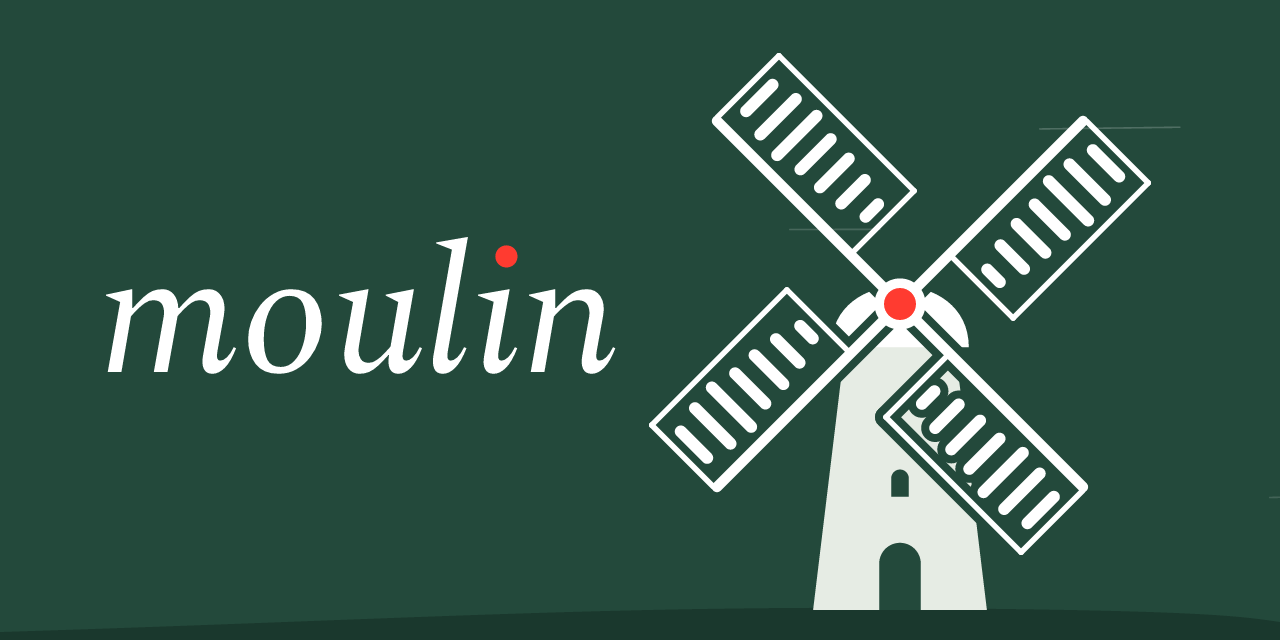
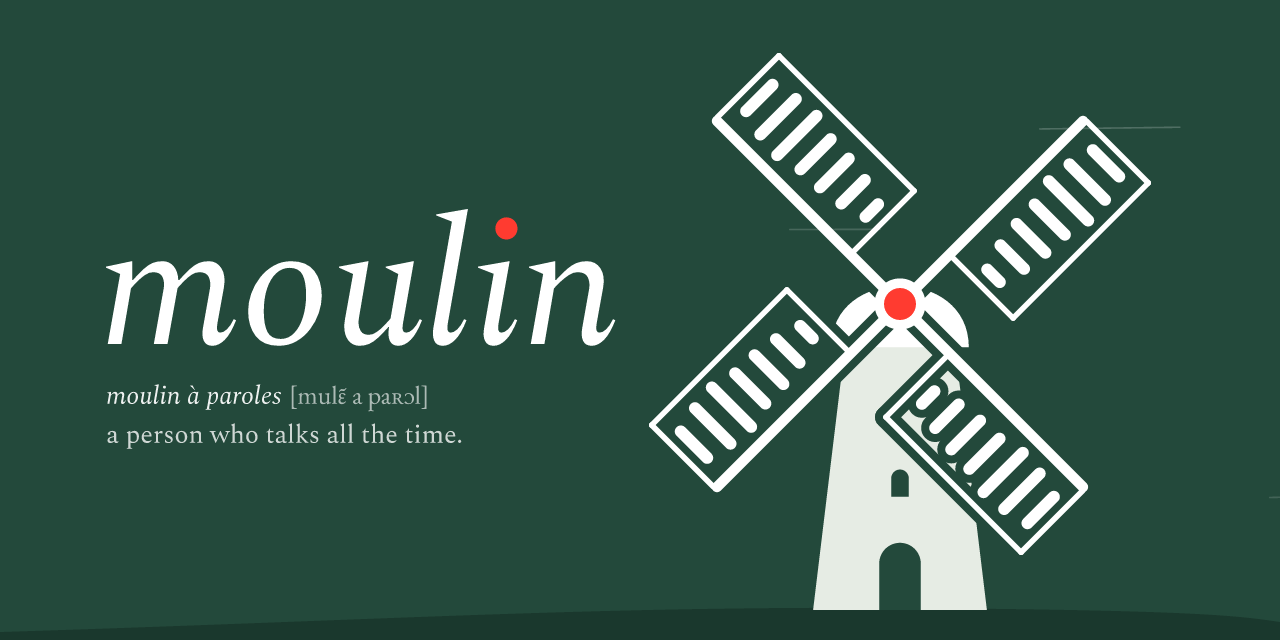
restore tabs, fix pop-up dots and click focus, add dictation key help

Changed region(s): [[0.0625, 0.3125, 0.5, 0.6875]]

diff --git a/docs/index.html b/docs/index.html
@@ -38,21 +38,34 @@
 
   <div class="words">
     <h1 class="wordmark"><svg viewBox="30 -756 2837 772" role="img" aria-label="Moulin"><path class="word-face" d="M119 0L43 0L112-389L34-424L34-430L176-460L179-460L179-355L183-355Q218-394 243-417Q268-440 292-450Q316-460 348-460L348-460Q385-460 409-432Q433-404 435-355L435-355L440-355Q475-394 500-417Q525-440 549-450Q573-460 605-460L605-460Q650-460 675-420Q700-380 688-312L688-312L653-119Q648-89 651.5-76Q655-63 668-63L668-63Q685-63 705-81.5Q725-100 743-138L743-138L756-132Q727-57 693.5-23.5Q660 10 625 10L625 10Q590 10 577-17Q564-44 572-89L572-89L611-309Q617-344 604.5-371.5Q592-399 552-399L552-399Q530-399 508.5-384.5Q487-370 467-349.5Q447-329 431-311L431-311L375 0L299 0L354-309Q360-344 347.5-371.5Q335-399 295-399L295-399Q273-399 251-384Q229-369 208.5-348.5Q188-328 172-309L172-309L119 0ZM993 10L993 10Q906 10 864.5-44.5Q823-99 823-184L823-184Q823-231 840-279.5Q857-328 889-369Q921-410 965-435Q1009-460 1062-460L1062-460Q1149-460 1190.5-406Q1232-352 1232-266L1232-266Q1232-221 1215.5-172.5Q1199-124 1167.5-82.5Q1136-41 1092-15.5Q1048 10 993 10ZM1004-28L1004-28Q1048-28 1079.5-61.5Q1111-95 1128-150.5Q1145-206 1145-272L1145-272Q1145-346 1125.5-384.5Q1106-423 1053-423L1053-423Q1011-423 978.5-392.5Q946-362 928-308Q910-254 910-181L910-181Q910-107 930-67.5Q950-28 1004-28ZM1441 10L1441 10Q1404 10 1380.5-19Q1357-48 1357-98L1357-98Q1357-108 1358.5-118Q1360-128 1361-138L1361-138L1406-389L1328-424L1328-430L1488-460L1492-460L1440-154Q1436-129 1436-118L1436-118Q1436-90 1449.5-70.5Q1463-51 1494-51L1494-51Q1515-51 1536.5-66Q1558-81 1578-102Q1598-123 1614-141L1614-141L1657-389L1588-424L1588-430L1740-460L1744-460L1684-119Q1679-89 1682.5-76Q1686-63 1701-63L1701-63Q1718-63 1738-81.5Q1758-100 1776-138L1776-138L1789-132Q1760-57 1726.5-23.5Q1693 10 1658 10L1658 10Q1623 10 1610.5-17Q1598-44 1605-89L1605-89L1606-95L1603-95Q1569-57 1544-34Q1519-11 1495.5-0.5Q1472 10 1441 10ZM1905 10L1905 10Q1870 10 1857.5-17Q1845-44 1852-89L1852-89L1955-680L1868-714L1868-720L2041-750L2044-750L1933-119Q1928-89 1931.5-76Q1935-63 1948-63L1948-63Q1965-63 1985-81.5Q2005-100 2023-138L2023-138L2036-132Q2007-57 1973.5-23.5Q1940 10 1905 10ZM2187 10L2187 10Q2152 10 2139-17Q2126-44 2134-89L2134-89L2187-390L2100-424L2100-430L2273-460L2276-460L2215-119Q2210-89 2213.5-76Q2217-63 2230-63L2230-63Q2247-63 2267-81.5Q2287-100 2305-138L2305-138L2318-132Q2289-57 2255.5-23.5Q2222 10 2187 10ZM2469 0L2393 0L2462-389L2384-424L2384-430L2526-460L2529-460L2529-355L2533-355Q2569-394 2595.5-417Q2622-440 2647.5-450Q2673-460 2705-460L2705-460Q2754-460 2780.5-420Q2807-380 2795-312L2795-312L2760-119Q2755-89 2758.5-76Q2762-63 2775-63L2775-63Q2792-63 2812-81.5Q2832-100 2850-138L2850-138L2863-132Q2834-57 2800.5-23.5Q2767 10 2732 10L2732 10Q2697 10 2684-17Q2671-44 2679-89L2679-89L2718-309Q2723-344 2709.5-371.5Q2696-399 2652-399L2652-399Q2630-399 2606.5-384Q2583-369 2561-348.5Q2539-328 2522-309L2522-309L2469 0Z"/><circle class="word-dot" cx="2258" cy="-642" r="61.6"/></svg></h1>
-    <p class="definition"><i lang="fr">moulin à paroles</i> <span class="ipa" lang="fr-fonipa">/mu.lɛ̃ a pa.ʁɔl/</span>: a person who talks all the time.</p>
+    <p class="definition"><i lang="fr">moulin à paroles</i> <span class="ipa" lang="fr-fonipa">[mulɛ̃ a paʀɔl]</span>: a person who talks all the time.</p>
     <p class="tagline">Speech-to-text using the best multilingual models from your own ChatGPT account.</p>
 
-    <div class="downloads" aria-label="Download">
-      <a class="download" id="get-macos" href="https://github.com/brohoya/moulin/releases/latest/download/Moulin-mac-arm64.dmg"><svg viewBox="0 0 16 16" aria-hidden="true"><path d="M8 2.5v8M4.5 7.5 8 11l3.5-3.5M3 13.5h10"/></svg>macOS</a>
-      <a class="download" id="get-windows" href="https://github.com/brohoya/moulin/releases/latest/download/Moulin-windows-x64.exe"><svg viewBox="0 0 16 16" aria-hidden="true"><path d="M8 2.5v8M4.5 7.5 8 11l3.5-3.5M3 13.5h10"/></svg>Windows</a>
-      <a class="download" id="get-linux" href="https://github.com/brohoya/moulin/releases/latest/download/Moulin-linux-x86_64.AppImage"><svg viewBox="0 0 16 16" aria-hidden="true"><path d="M8 2.5v8M4.5 7.5 8 11l3.5-3.5M3 13.5h10"/></svg>Linux</a>
-    </div>
-    <div class="command"><span class="prompt" aria-hidden="true">$</span><code>curl -fsSL https://brohoya.github.io/moulin/install.sh | sh</code><button class="copy" type="button">Copy</button></div>
+    <section class="install" aria-label="Download">
+      <div class="tabs" role="tablist" aria-label="System">
+        <button class="tab" id="tab-macos" type="button" role="tab" aria-selected="true" aria-controls="panel-macos">macOS</button>
+        <button class="tab" id="tab-windows" type="button" role="tab" aria-selected="false" aria-controls="panel-windows" tabindex="-1">Windows</button>
+        <button class="tab" id="tab-linux" type="button" role="tab" aria-selected="false" aria-controls="panel-linux" tabindex="-1">Linux</button>
+      </div>
+      <div class="panel" id="panel-macos" role="tabpanel" aria-labelledby="tab-macos" data-name="macOS">
+        <a class="download" href="https://github.com/brohoya/moulin/releases/latest/download/Moulin-mac-arm64.dmg"><svg viewBox="0 0 16 16" aria-hidden="true"><path d="M8 2.5v8M4.5 7.5 8 11l3.5-3.5M3 13.5h10"/></svg>Download for macOS</a>
+        <p class="alt">Or in Terminal:</p>
+        <div class="command"><span class="prompt" aria-hidden="true">$</span><code>curl -fsSL https://brohoya.github.io/moulin/install.sh | sh</code><button class="copy" type="button">Copy</button></div>
+      </div>
+      <div class="panel" id="panel-windows" role="tabpanel" aria-labelledby="tab-windows" data-name="Windows" hidden>
+        <a class="download" href="https://github.com/brohoya/moulin/releases/latest/download/Moulin-windows-x64.exe"><svg viewBox="0 0 16 16" aria-hidden="true"><path d="M8 2.5v8M4.5 7.5 8 11l3.5-3.5M3 13.5h10"/></svg>Download for Windows</a>
+      </div>
+      <div class="panel" id="panel-linux" role="tabpanel" aria-labelledby="tab-linux" data-name="Linux" hidden>
+        <a class="download" href="https://github.com/brohoya/moulin/releases/latest/download/Moulin-linux-x86_64.AppImage"><svg viewBox="0 0 16 16" aria-hidden="true"><path d="M8 2.5v8M4.5 7.5 8 11l3.5-3.5M3 13.5h10"/></svg>Download for Linux</a>
+        <p class="alt">Or in a terminal:</p>
+        <div class="command"><span class="prompt" aria-hidden="true">$</span><code>curl -fsSL https://brohoya.github.io/moulin/install.sh | sh</code><button class="copy" type="button">Copy</button></div>
+      </div>
+    </section>
+
+    <p class="caution"><strong>Caution:</strong> Moulin automates the ChatGPT web app. The OpenAI Terms of Use forbid this, so OpenAI can warn or suspend the account.</p>
   </div>
 
-  <footer class="fine">
-    <p><strong>Caution:</strong> Moulin automates the ChatGPT web app. The OpenAI Terms of Use forbid this, so OpenAI can warn or suspend the account.</p>
-    <p>A project by Bixente Elgart. Not affiliated with OpenAI. <a href="https://github.com/brohoya/moulin">Source on GitHub</a></p>
-  </footer>
+  <footer class="footer">A project by Bixente Elgart. Not affiliated with OpenAI. <a href="https://github.com/brohoya/moulin">Source on GitHub</a></footer>
 
   <svg class="ink" aria-hidden="true" focusable="false"></svg>
 </main>

diff --git a/src/overlay/overlay.html b/src/overlay/overlay.html
@@ -10,7 +10,7 @@
 <div id="pill" class="pill" data-state="hidden">
   <div class="icon">
     <!-- The mill of docs/mill.js (glyphInner). While Moulin records, the sails turn with the loudness of the voice. -->
-    <svg class="mill" viewBox="0 0 32 32" aria-hidden="true"><defs><mask id="pill-gap" maskUnits="userSpaceOnUse" x="0" y="0" width="32" height="32"><rect width="32" height="32" fill="#fff"/><g class="sails" fill="#000" stroke="#000" stroke-width="2.4" stroke-linejoin="round"><g transform="translate(16 12.2) rotate(45)"><rect x="-1" y="-11.4" width="2" height="10.4" rx="1"/><rect y="-11.4" width="5.4" height="7.2"/></g><g transform="translate(16 12.2) rotate(135)"><rect x="-1" y="-11.4" width="2" height="10.4" rx="1"/><rect y="-11.4" width="5.4" height="7.2"/></g><g transform="translate(16 12.2) rotate(225)"><rect x="-1" y="-11.4" width="2" height="10.4" rx="1"/><rect y="-11.4" width="5.4" height="7.2"/></g><g transform="translate(16 12.2) rotate(315)"><rect x="-1" y="-11.4" width="2" height="10.4" rx="1"/><rect y="-11.4" width="5.4" height="7.2"/></g></g><circle cx="16" cy="12.2" r="4.6" fill="#fff"/></mask></defs><g fill="currentColor"><g mask="url(#pill-gap)"><path fill-rule="evenodd" d="M13.5 14.2 H18.5 L21.3 29.6 H10.7 Z M14.75 29.6 V26.4 A1.25 1.25 0 0 1 17.25 26.4 V29.6 Z"/><path d="M12.9 15.2 C 12.9 10.8, 19.1 10.8, 19.1 15.2 Z"/></g><g class="sails"><g transform="translate(16 12.2) rotate(45)"><rect x="-1" y="-11.4" width="2" height="10.4" rx="1"/><path fill-rule="evenodd" d="M0 -11.4 H5.4 V-4.2 H0 Z M1.2 -9.8 V-5.8 H3.8 V-9.8 Z"/></g><g transform="translate(16 12.2) rotate(135)"><rect x="-1" y="-11.4" width="2" height="10.4" rx="1"/><path fill-rule="evenodd" d="M0 -11.4 H5.4 V-4.2 H0 Z M1.2 -9.8 V-5.8 H3.8 V-9.8 Z"/></g><g transform="translate(16 12.2) rotate(225)"><rect x="-1" y="-11.4" width="2" height="10.4" rx="1"/><path fill-rule="evenodd" d="M0 -11.4 H5.4 V-4.2 H0 Z M1.2 -9.8 V-5.8 H3.8 V-9.8 Z"/></g><g transform="translate(16 12.2) rotate(315)"><rect x="-1" y="-11.4" width="2" height="10.4" rx="1"/><path fill-rule="evenodd" d="M0 -11.4 H5.4 V-4.2 H0 Z M1.2 -9.8 V-5.8 H3.8 V-9.8 Z"/></g></g><circle cx="16" cy="12.2" r="1.9"/></g></svg>
+    <svg class="mill" viewBox="0 0 32 32" aria-hidden="true"><defs><mask id="pill-gap" maskUnits="userSpaceOnUse" x="0" y="0" width="32" height="32"><rect width="32" height="32" fill="#fff"/><g class="sails" fill="#000" stroke="#000" stroke-width="2.4" stroke-linejoin="round"><g transform="translate(16 12.2) rotate(45)"><rect x="-1" y="-11.4" width="2" height="10.4" rx="1"/><rect y="-11.4" width="5.4" height="7.2"/></g><g transform="translate(16 12.2) rotate(135)"><rect x="-1" y="-11.4" width="2" height="10.4" rx="1"/><rect y="-11.4" width="5.4" height="7.2"/></g><g transform="translate(16 12.2) rotate(225)"><rect x="-1" y="-11.4" width="2" height="10.4" rx="1"/><rect y="-11.4" width="5.4" height="7.2"/></g><g transform="translate(16 12.2) rotate(315)"><rect x="-1" y="-11.4" width="2" height="10.4" rx="1"/><rect y="-11.4" width="5.4" height="7.2"/></g></g><circle cx="16" cy="12.2" r="4.6" fill="#fff"/></mask></defs><g fill="currentColor"><g mask="url(#pill-gap)"><path fill-rule="evenodd" d="M14.1 13.6 H17.9 L21.3 29.6 H10.7 Z M14.75 29.6 V26.4 A1.25 1.25 0 0 1 17.25 26.4 V29.6 Z"/></g><g class="sails"><g transform="translate(16 12.2) rotate(45)"><rect x="-1" y="-11.4" width="2" height="10.4" rx="1"/><path fill-rule="evenodd" d="M0 -11.4 H5.4 V-4.2 H0 Z M1.2 -9.8 V-5.8 H3.8 V-9.8 Z"/></g><g transform="translate(16 12.2) rotate(135)"><rect x="-1" y="-11.4" width="2" height="10.4" rx="1"/><path fill-rule="evenodd" d="M0 -11.4 H5.4 V-4.2 H0 Z M1.2 -9.8 V-5.8 H3.8 V-9.8 Z"/></g><g transform="translate(16 12.2) rotate(225)"><rect x="-1" y="-11.4" width="2" height="10.4" rx="1"/><path fill-rule="evenodd" d="M0 -11.4 H5.4 V-4.2 H0 Z M1.2 -9.8 V-5.8 H3.8 V-9.8 Z"/></g><g transform="translate(16 12.2) rotate(315)"><rect x="-1" y="-11.4" width="2" height="10.4" rx="1"/><path fill-rule="evenodd" d="M0 -11.4 H5.4 V-4.2 H0 Z M1.2 -9.8 V-5.8 H3.8 V-9.8 Z"/></g></g><circle cx="16" cy="12.2" r="1.9"/></g></svg>
     <svg class="check" viewBox="0 0 24 24" aria-hidden="true"><path d="M5 12.5l4.5 4.5L19 7.5" fill="none" stroke="currentColor" stroke-width="2.6" stroke-linecap="round" stroke-linejoin="round"/></svg>
     <svg class="warn" viewBox="0 0 24 24" aria-hidden="true"><path d="M12 3.5L22 20.5H2Z" fill="currentColor" stroke="currentColor" stroke-width="1.5" stroke-linejoin="round"/><path d="M12 10v4.6M12 17.4v.1" stroke="#16201B" stroke-width="2.2" stroke-linecap="round"/></svg>
   </div>

diff --git a/docs/site.css b/docs/site.css
@@ -3,6 +3,8 @@
 @font-face { font-family: "Spectral"; src: url("fonts/Spectral-Regular.woff2") format("woff2"); font-weight: 400; font-style: normal; font-display: swap; }
 @font-face { font-family: "Spectral"; src: url("fonts/Spectral-Italic.woff2") format("woff2"); font-weight: 400; font-style: italic; font-display: swap; }
 @font-face { font-family: "Spectral"; src: url("fonts/Spectral-Medium.woff2") format("woff2"); font-weight: 500; font-style: normal; font-display: swap; }
+/* Only the letters of the pronunciation, in the notation of French dictionaries. */
+@font-face { font-family: "EB Garamond IPA"; src: url("fonts/EBGaramond-IPA.woff2") format("woff2"); font-display: swap; }
 
 :root {
   color-scheme: light dark;
@@ -155,49 +157,69 @@ code { font-family: var(--mono); font-size: 0.86em; }
 .word-dot { fill: var(--signal); }
 
 .definition { margin-top: 14px; font-size: 17px; color: var(--text-2); }
+.definition .ipa { font-family: "EB Garamond IPA", var(--serif); font-size: 1.05em; color: var(--text-3); }
 
 .tagline {
   max-width: 21em;
   margin-top: clamp(26px, 4vh, 40px);
-  font-size: clamp(24px, 2.1vw, 30px);
-  line-height: 1.25;
+  font-size: clamp(23px, 2vw, 28px);
+  line-height: 1.3;
 }
 
-.why { max-width: 30em; margin-top: 14px; color: var(--text-2); }
+/* ---------- Install: one tab for each system. ---------- */
 
-.downloads {
-  display: flex;
-  flex-wrap: wrap;
-  gap: 10px;
-  margin-top: clamp(26px, 4vh, 36px);
+.install { max-width: 620px; margin-top: clamp(28px, 4.5vh, 40px); }
+
+.tabs {
+  display: inline-flex;
+  gap: 2px;
+  padding: 4px;
+  border-radius: 999px;
+  background: var(--well);
 }
 
-/* The button of the visitor's system is white. The two others are outlines. */
+.tab {
+  padding: 8px 18px;
+  border: 0;
+  border-radius: 999px;
+  background: transparent;
+  color: var(--text-2);
+  font: 500 15px/1 var(--serif);
+  cursor: pointer;
+}
+
+.tab:hover { color: #fff; }
+.tab[aria-selected="true"] { background: rgb(255 255 255 / 0.16); color: #fff; }
+
+.panel { margin-top: 16px; }
+
+html:not(.js) .tabs { display: none; }
+html:not(.js) .panel[hidden] { display: block; }
+html:not(.js) .panel::before { content: attr(data-name); display: block; margin: 18px 0 8px; font-weight: 500; }
+
 .download {
   display: inline-flex;
   align-items: center;
   gap: 9px;
   min-height: 48px;
-  padding: 0 22px;
-  border: 1px solid rgb(255 255 255 / 0.45);
+  padding: 0 24px;
   border-radius: 999px;
-  color: #fff;
+  background: #fff;
+  color: var(--green);
   font-weight: 500;
   text-decoration: none;
 }
 
 .download svg { width: 15px; height: 15px; fill: none; stroke: currentColor; stroke-width: 1.6; stroke-linecap: round; stroke-linejoin: round; }
+.download:hover { background: #E6ECE4; text-decoration: none; }
 
-.download:hover { border-color: #fff; text-decoration: none; }
-.download.primary { border-color: #fff; background: #fff; color: var(--green); }
-.download.primary:hover { background: #E6ECE4; }
+.alt { margin-top: 16px; font-size: 14px; color: var(--text-3); }
 
 .command {
   display: flex;
   align-items: center;
   gap: 8px;
-  max-width: 620px;
-  margin-top: 12px;
+  margin-top: 8px;
   padding: 6px 6px 6px 14px;
   border-radius: 14px;
   background: var(--well);
@@ -227,19 +249,17 @@ code { font-family: var(--mono); font-size: 0.86em; }
 
 .command .copy:hover { background: rgb(255 255 255 / 0.2); }
 
-/* The caution and the credits, at the bottom of the page. */
-.fine {
+.caution { max-width: 36em; margin-top: clamp(28px, 5vh, 44px); font-size: 13.5px; line-height: 1.5; color: var(--text-3); }
+.caution strong { font-weight: 500; color: var(--text-2); }
+
+/* The credits, alone at the bottom of the page. */
+.footer {
   position: relative;
   z-index: 1;
-  max-width: calc(620px + 2 * var(--gutter));
-  padding: 0 var(--gutter) 26px;
-  font-size: 13.5px;
-  line-height: 1.5;
+  padding: 56px var(--gutter) 24px;
+  font-size: 13px;
   color: var(--text-3);
 }
-
-.fine p + p { margin-top: 6px; }
-.fine strong { font-weight: 500; color: var(--text-2); }
 
 /* ---------- The stacked page: the mill above, the words below. Keep this query equal to "stacked" in site.js. ---------- */
 
@@ -255,8 +275,7 @@ code { font-family: var(--mono); font-size: 0.86em; }
   .listen span { display: none; }
   .listen { padding: 0 10px; }
   .listen-note { left: var(--gutter); text-align: left; }
-  .downloads { gap: 8px; }
-  .download { gap: 7px; padding: 0 14px; font-size: 16px; }
+  .tab { padding: 8px 14px; }
 }
 
 @media (prefers-reduced-motion: reduce) {

diff --git a/docs/site.js b/docs/site.js
@@ -1,6 +1,6 @@
 // The website: one screen. The sails turn in a light wind, and a drag with the mouse turns them faster.
 // With the visitor's permission, the loudness of the microphone turns them and fills the bars of the sails.
-// Below the words: the downloads, and the install command.
+// Below the words: one tab for each system, with its download.
 import { SAIL_FINE, VOICE, barRect, millSvg, sailsSvg, towerParts, windSvg } from './mill.js';
 import { WORDMARK } from './wordmark.js';
 
@@ -54,8 +54,8 @@ function layout() {
   const W = Math.round(box.width);
   const H = Math.round(box.height);
   const wordTop = w.top - box.top;
-  // The right edge of the text. The sails may pass behind the wordmark, but not behind the text and the downloads.
-  const right = Math.max(...[...words.querySelectorAll('.definition, .tagline, .why, .downloads, .command')].map((el) => el.getBoundingClientRect().right)) - box.left;
+  // The right edge of the text. The sails may pass behind the wordmark, but not behind the text and the tabs.
+  const right = Math.max(...[...words.querySelectorAll('.definition, .tagline, .install, .caution')].map((el) => el.getBoundingClientRect().right)) - box.left;
   const wide = !stacked.matches;
   let R;
   let hub;
@@ -290,12 +290,35 @@ document.addEventListener('visibilitychange', () => {
   wake();
 });
 
-// ---------- Downloads: the button of the visitor's system is white, and the install command has a copy button. ----------
+// ---------- Install: one tab for each system, and a copy button for each command. ----------
 
-// A phone gets the macOS button.
+const tabs = [...document.querySelectorAll('[role="tab"]')];
+
+function select(tab, focus = false) {
+  for (const item of tabs) {
+    const on = item === tab;
+    item.setAttribute('aria-selected', String(on));
+    item.tabIndex = on ? 0 : -1;
+    document.getElementById(item.getAttribute('aria-controls')).hidden = !on;
+  }
+  if (focus) tab.focus();
+  build(); // The text can change height, and the mill follows it.
+}
+
+tabs.forEach((tab, i) => {
+  tab.addEventListener('click', () => select(tab));
+  tab.addEventListener('keydown', (e) => {
+    const step = { ArrowRight: 1, ArrowLeft: -1 }[e.key];
+    if (!step) return;
+    e.preventDefault();
+    select(tabs[(i + step + tabs.length) % tabs.length], true);
+  });
+});
+
+// The tab of the visitor's system comes first. A phone gets the macOS tab.
 const system = `${navigator.userAgentData?.platform || ''} ${navigator.userAgent}`;
 const os = /windows/i.test(system) ? 'windows' : /linux|x11/i.test(system) && !/android/i.test(system) ? 'linux' : 'macos';
-document.getElementById(`get-${os}`).classList.add('primary');
+select(document.getElementById(`tab-${os}`));
 
 for (const button of document.querySelectorAll('.command .copy')) {
   button.addEventListener('click', async () => {

diff --git a/src/main.js b/src/main.js
@@ -248,6 +248,19 @@ function toggle() {
   else startRecording();
 }
 
+// macOS: a click on the pop-up makes Moulin the active app, also with focusable false, so the paste would go to Moulin.
+// When Moulin hides, macOS gives the front back to the previous app. Then the pop-up shows again without activation.
+async function stopFromClick() {
+  const settingsFocused = settingsWin && !settingsWin.isDestroyed() && settingsWin.isFocused();
+  if (IS_MAC && !settingsFocused) {
+    app.hide();
+    await new Promise((resolve) => setTimeout(resolve, 40));
+    if (state !== 'recording') return; // Esc or the time limit stopped the dictation during the wait.
+    if (pageOf(overlay)) overlay.showInactive();
+  }
+  stopRecording();
+}
+
 // macOS needs the Accessibility permission to paste. Without it, the text stays in the clipboard.
 async function pasteText() {
   if (IS_MAC && !systemPreferences.isTrustedAccessibilityClient(false)) {
@@ -417,7 +430,7 @@ function listenToPages() {
     events.emit('audio', pending);
     transcribe();
   });
-  ipcMain.on('overlay:clicked', (e) => { if (fromOverlay(e) && state === 'recording') stopRecording(); });
+  ipcMain.on('overlay:clicked', (e) => { if (fromOverlay(e) && state === 'recording') stopFromClick(); });
 
   ipcMain.handle('settings:get', (e) => (fromSettings(e) ? snapshot() : null));
   ipcMain.handle('settings:set', (e, patch) => {

diff --git a/src/overlay/overlay.css b/src/overlay/overlay.css
@@ -36,7 +36,7 @@ body {
   box-shadow: 0 3px 9px rgba(4, 10, 7, 0.4), inset 0 0 0 1px rgba(255, 255, 255, 0.12);
   color: #fff;
   cursor: default;
-  transition: opacity 0.18s ease, transform 0.28s var(--ease), width 0.28s var(--ease);
+  transition: opacity 0.18s ease, transform 0.28s var(--ease), width 0.28s var(--ease), box-shadow 0.18s ease;
 }
 
 .pill[data-state="hidden"] {
@@ -109,7 +109,7 @@ body {
   border-radius: 1.5px;
   background: rgba(255, 255, 255, 0.9);
   transform: scaleY(0.12);
-  transition: transform 70ms linear;
+  transition: transform 70ms linear, background-color 0.18s ease;
 }
 
 .time {
@@ -117,11 +117,29 @@ body {
   min-width: 2.4em;
   color: rgba(255, 255, 255, 0.62);
   font-variant-numeric: tabular-nums;
+  transition: color 0.18s ease;
 }
 
 [data-state="recording"] .bars,
 [data-state="recording"] .time {
   display: flex;
+}
+
+/* A click on the pill stops the dictation. On hover, the pill turns red to show it. */
+.pill[data-state="recording"] {
+  cursor: pointer;
+}
+
+.pill[data-state="recording"]:hover {
+  box-shadow: 0 3px 9px rgba(4, 10, 7, 0.4), inset 0 0 0 1.5px var(--signal);
+}
+
+.pill[data-state="recording"]:hover .bars i {
+  background: var(--signal);
+}
+
+.pill[data-state="recording"]:hover .time {
+  color: var(--signal);
 }
 
 .text {

diff --git a/docs/mill.js b/docs/mill.js
@@ -146,8 +146,8 @@ export function glyphInner({ id = 'glyph', angle = 45, color = '#000' } = {}) {
     // No gap near the hub: the turning gaps would cut small, still pieces out of the cap and the top of the tower.
     + '<circle cx="16" cy="12.2" r="4.6" fill="#fff"/></mask></defs>'
     + `<g fill="${color}"><g mask="url(#${id}-gap)">`
-    + '<path fill-rule="evenodd" d="M13.5 14.2 H18.5 L21.3 29.6 H10.7 Z M14.75 29.6 V26.4 A1.25 1.25 0 0 1 17.25 26.4 V29.6 Z"/>'
-    + '<path d="M12.9 15.2 C 12.9 10.8, 19.1 10.8, 19.1 15.2 Z"/></g>'
+    // No cap at this size: its two sides showed as still dots next to the hub while the sails turned.
+    + '<path fill-rule="evenodd" d="M14.1 13.6 H17.9 L21.3 29.6 H10.7 Z M14.75 29.6 V26.4 A1.25 1.25 0 0 1 17.25 26.4 V29.6 Z"/></g>'
     + `<g class="sails">${sails}</g><circle cx="16" cy="12.2" r="1.9"/></g>`;
 }
 

diff --git a/README.md b/README.md
@@ -33,7 +33,14 @@ Push Esc to cancel a dictation. The windmill in the menu bar is red while Moulin
 
 ## Help
 
-- F5 does nothing: on Apple keyboards, F5 can start the dictation of macOS. Push fn+F5, or choose another key in the settings.
+- The microphone key (F5) opens the dictation of macOS, also when Dictation is off. Install [Karabiner-Elements](https://karabiner-elements.pqrs.org) and add the Moulin rule, which changes this key into F13:
+
+  ```sh
+  brew install --cask karabiner-elements
+  open "karabiner://karabiner/assets/complex_modifications/import?url=https%3A%2F%2Fbrohoya.github.io%2Fmoulin%2Fkarabiner.json"
+  ```
+
+  In Karabiner-Elements, click Import, then Enable. Then click the shortcut in the Moulin settings and push the key: the settings show F13.
 - No windmill in the menu bar (macOS 26): turn on Moulin in System Settings > Menu Bar > "Allow in the Menu Bar".
 - Windows can hide the windmill behind the arrow (^) of the notification area.
 - Linux: the AppImage needs `libfuse2`. On Ubuntu 24.04, start it with `--no-sandbox`. To paste, install `xdotool` (X11), or `wtype` or `ydotool` (Wayland). On a GNOME desktop other than Ubuntu, install the "AppIndicator and KStatusNotifierItem Support" extension to see the windmill.
